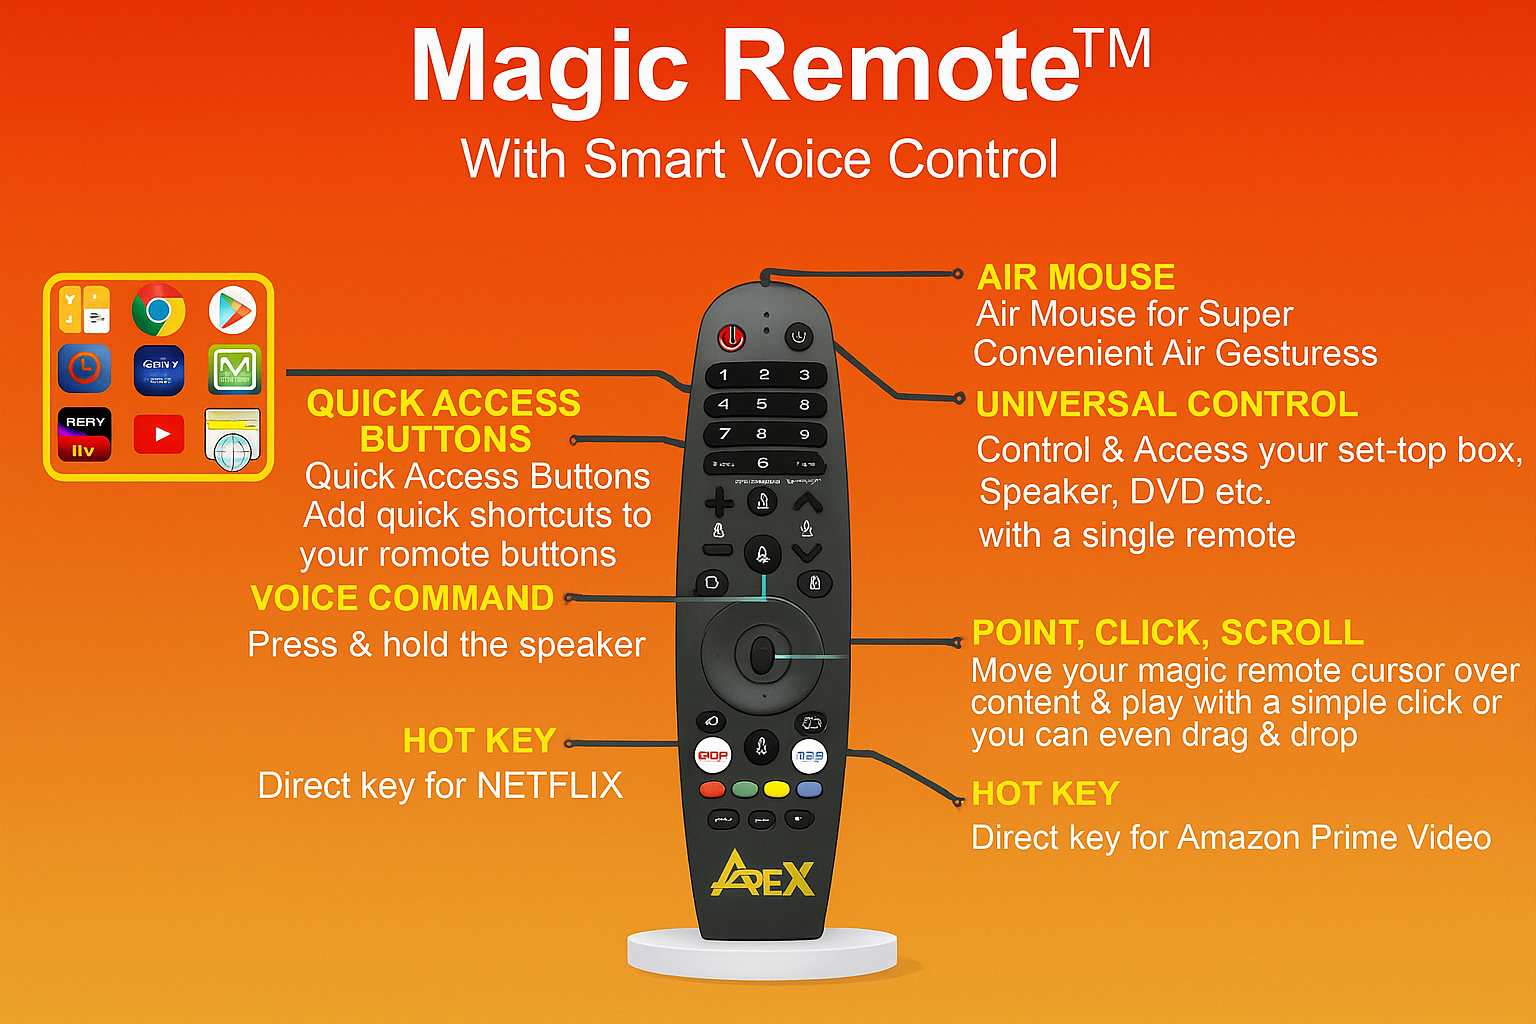
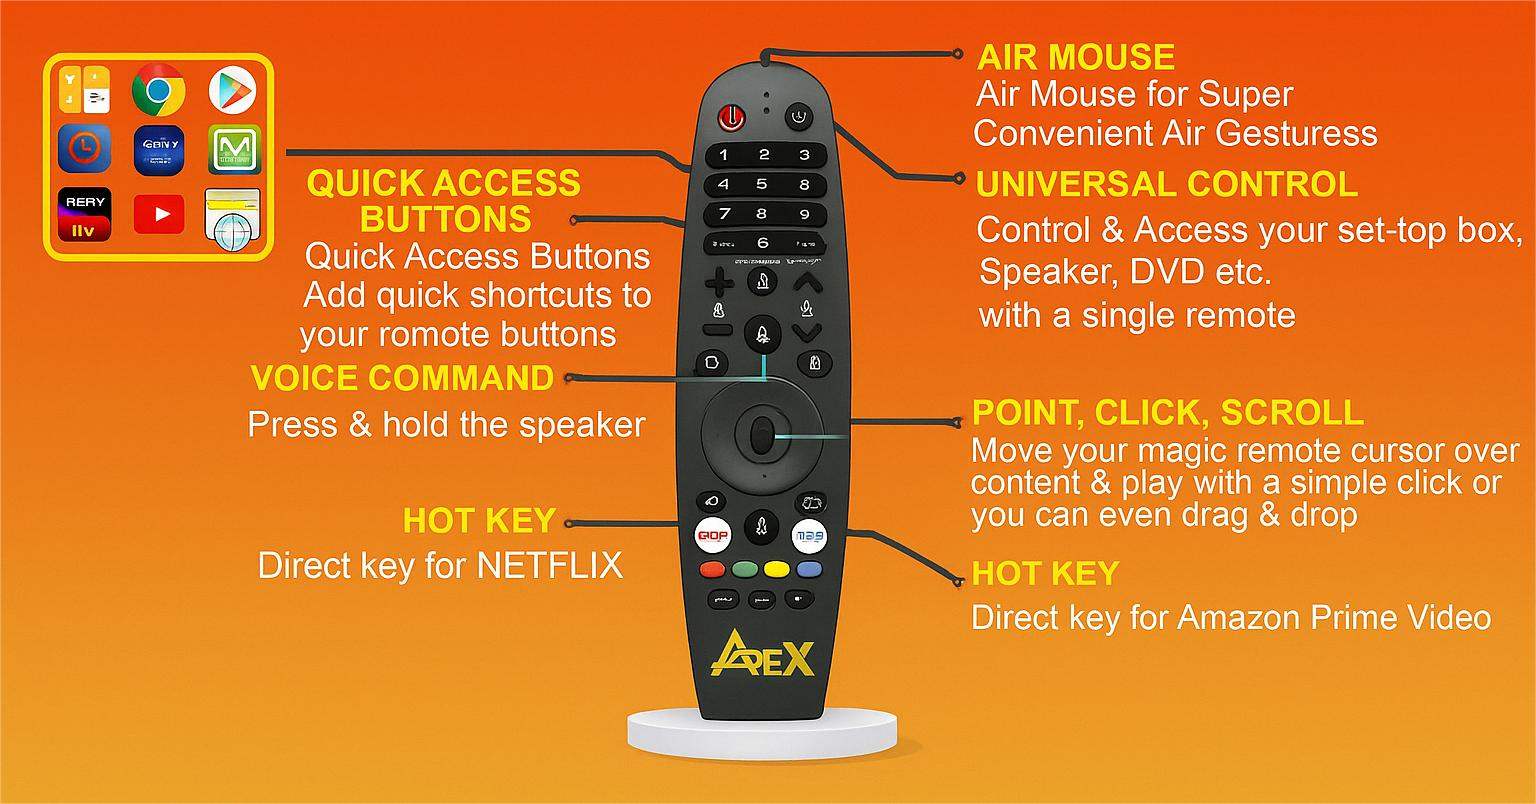
new-fils-added

diff --git a/style/tv.css b/style/tv.css
@@ -250,17 +250,34 @@ body {
 
 /* <======================================magic remote====================================> */
 .apex-image {
-  width: 100vw;
-  height: 100vh;
-  display: flex;              
+  /* background-color: burlywood; */
+  /* width: 100vw; */
+  /* height: 100vh; */
+  /* display: flex;               */
   justify-content: center;   
   align-items: center;         
   overflow: hidden;           
 }
+.apex-image h1{
+  text-align: center;
+   background:rgba(237, 65, 2, 0.95);
+   padding-top: 20px;
+  font-size: 2.5rem;
+}
+.apex-image h1 sup{
+  font-size: 1.2rem;
+}
+.apex-image p{
+  background:rgba(237, 65, 2, 0.95);
+  text-align: center;
+  font-size: 1.6rem;
+  padding-top: 10px;
+  padding-bottom: 10px;
+}
 
 .apex-image img {
   width: 100vw;
-  height: 90vh;
+  height: 100vh;
   object-fit: cover;             
 }
 

diff --git a/tv.html b/tv.html
@@ -399,6 +399,8 @@
 </section>
 <!-- <========================================magic remote==========================================> -->
  <section class=" apex-image">
+  <h1>Magic Remote<sup>TM</sup></h1>
+  <p>With Smart Voice Control</p>
   <img src="./assets/imgaes/ChatGPT Image Oct 8, 2025, 10_22_12 PM.png">
  </section>
   
